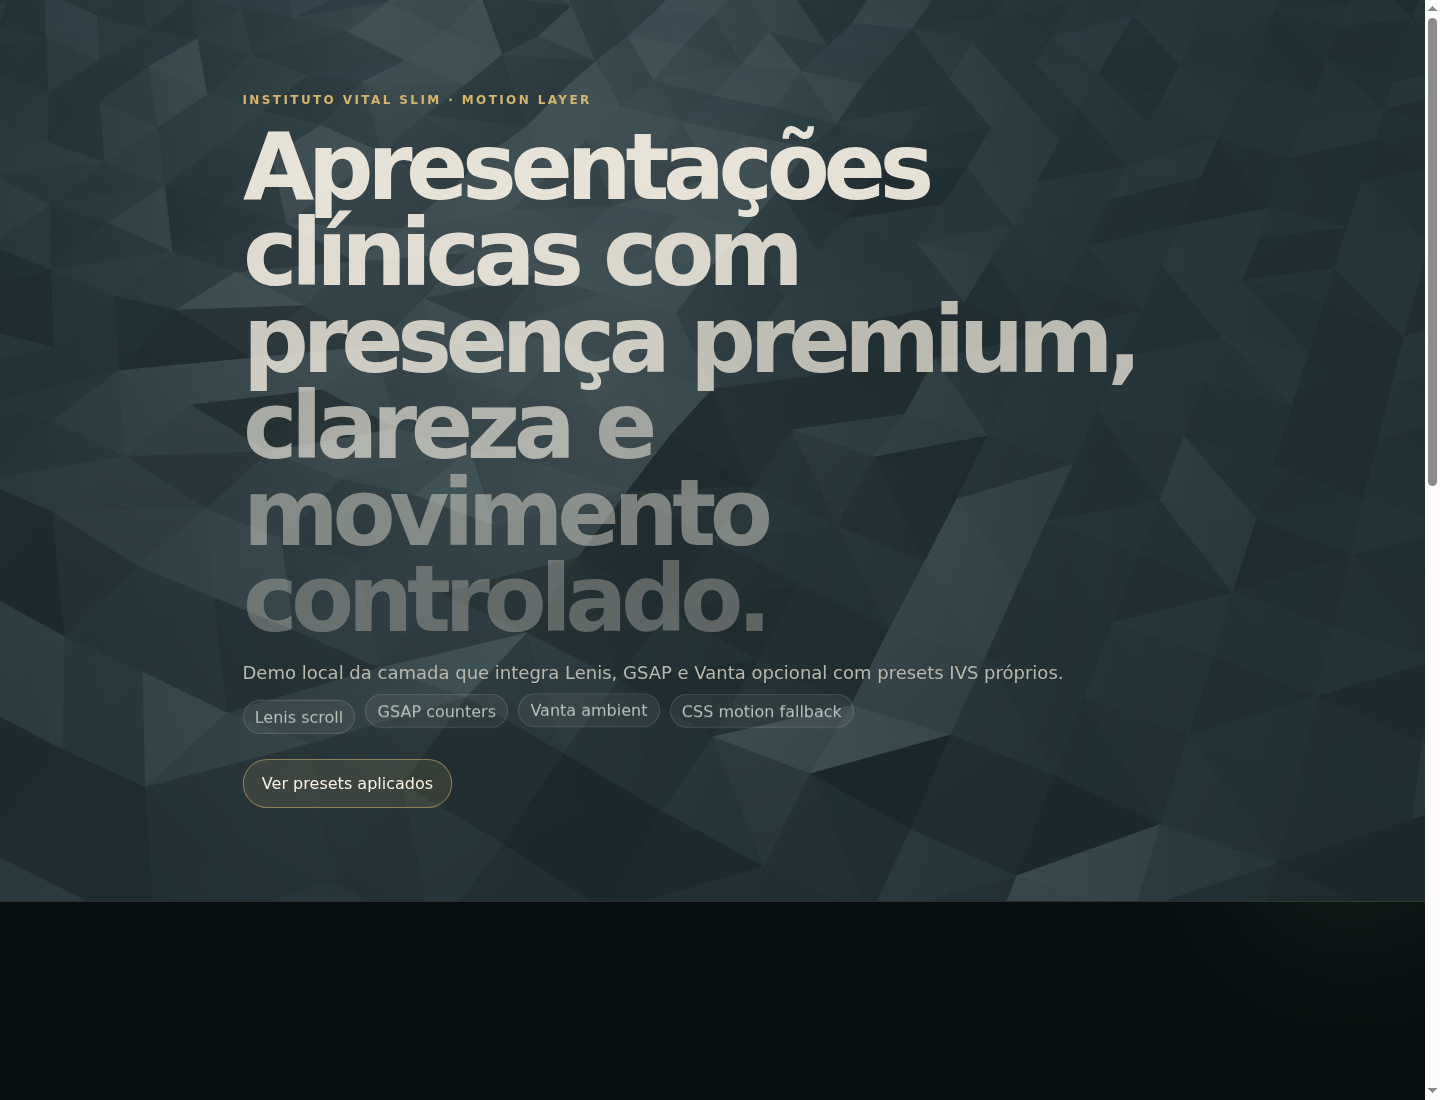
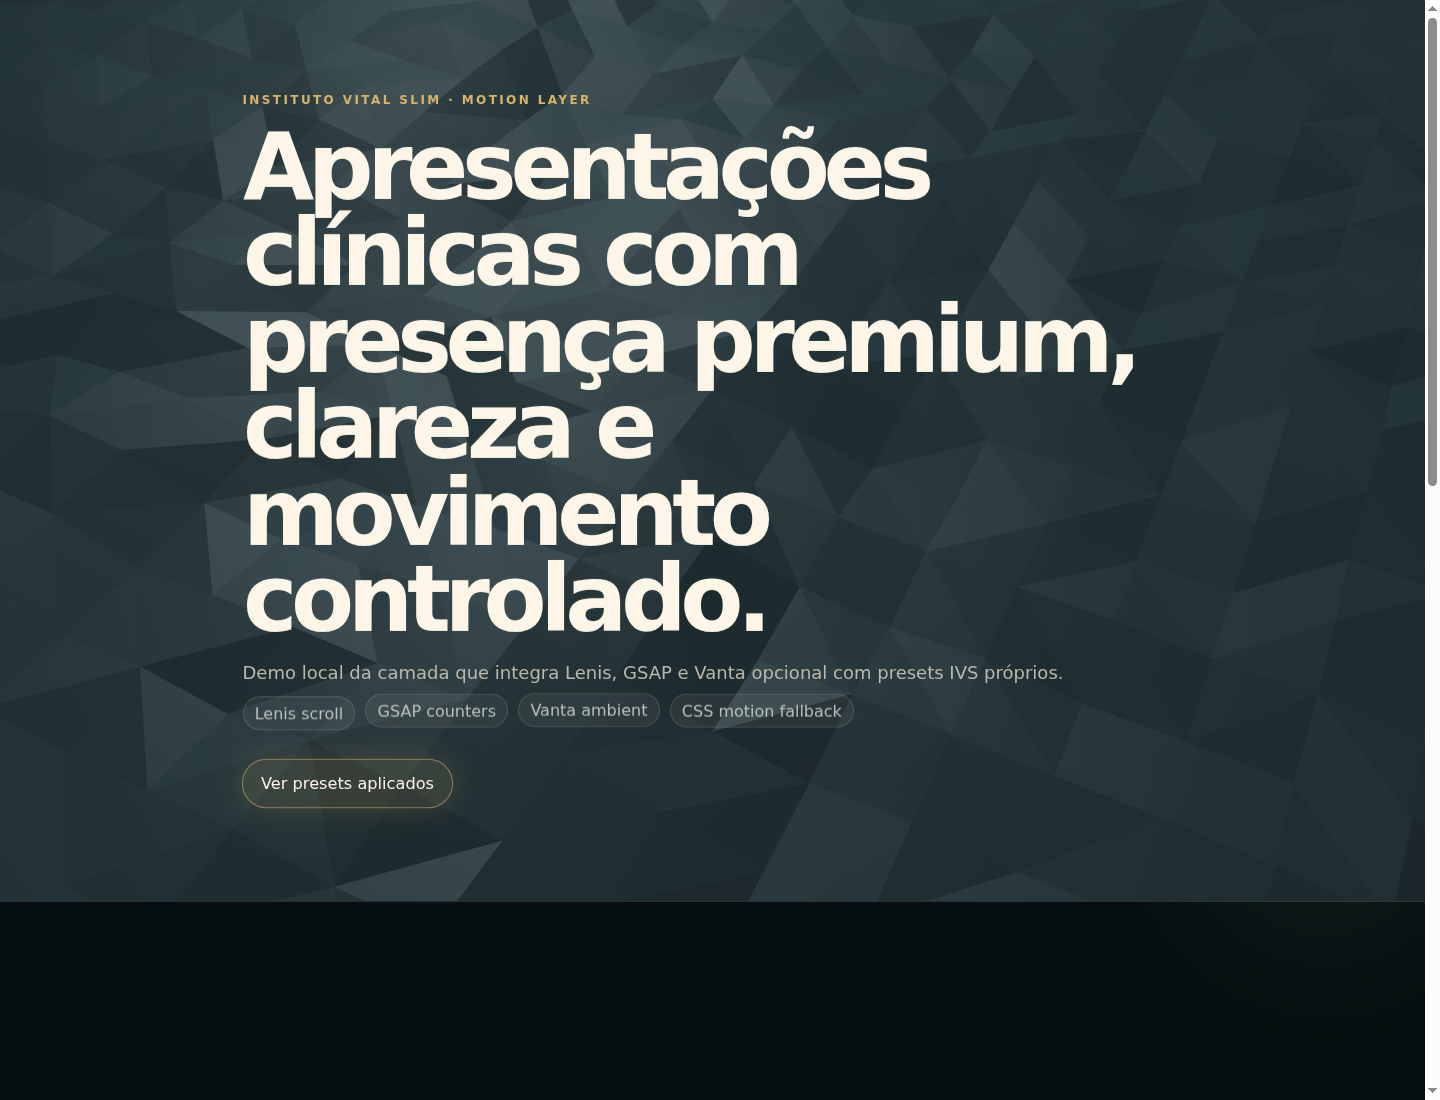
fix: replace poor motion preview with premium version

diff --git a/skills/ivs-motion-layer/scripts/render_preview_video.py b/skills/ivs-motion-layer/scripts/render_preview_video.py
@@ -1,106 +1,187 @@
 #!/usr/bin/env python3
-"""Gera preview MP4 da IVS Motion Layer para validação em canais que não executam HTML."""
-from pathlib import Path
-from PIL import Image, ImageDraw, ImageFont, ImageFilter
+"""Gera preview MP4 premium da IVS Motion Layer.
+
+Objetivo: provar movimento com estética médica premium — sem faixas agressivas,
+sem poluição visual e sem parecer template genérico de startup.
+"""
+from __future__ import annotations
+
 import math
 import subprocess
 import tempfile
+from pathlib import Path
+
+from PIL import Image, ImageDraw, ImageFilter, ImageFont
 
 OUT = Path('/root/cerebro-vital-slim/skills/ivs-motion-layer/examples/demo-apresentacao-ivs-motion-preview.mp4')
-W, H = 1280, 720
-FPS, DUR = 24, 5
-BG = (8, 15, 16)
-GOLD = (214, 180, 108)
-TEXT = (247, 242, 232)
-MUTED = (184, 192, 186)
-GREEN = (120, 200, 157)
+W, H = 1440, 900
+FPS, DUR = 30, 7
+BG = (7, 12, 13)
+PANEL = (18, 24, 23)
+PANEL_SOFT = (28, 34, 32)
+TEXT = (246, 239, 226)
+MUTED = (174, 168, 154)
+GOLD = (210, 174, 98)
+GOLD_LIGHT = (238, 211, 151)
+GREEN = (116, 176, 142)
+LINE = (82, 72, 52)
 
-try:
-    FONT_BIG = ImageFont.truetype('/usr/share/fonts/truetype/dejavu/DejaVuSans-Bold.ttf', 56)
-    FONT_MED = ImageFont.truetype('/usr/share/fonts/truetype/dejavu/DejaVuSans-Bold.ttf', 34)
-    FONT = ImageFont.truetype('/usr/share/fonts/truetype/dejavu/DejaVuSans.ttf', 24)
-    FONT_SMALL = ImageFont.truetype('/usr/share/fonts/truetype/dejavu/DejaVuSans.ttf', 18)
-except Exception:
-    FONT_BIG = FONT_MED = FONT = FONT_SMALL = ImageFont.load_default()
+FONT_DIR = Path('/usr/share/fonts/truetype/dejavu')
+SERIF_BOLD = ImageFont.truetype(str(FONT_DIR / 'DejaVuSerif-Bold.ttf'), 62)
+SERIF_MED = ImageFont.truetype(str(FONT_DIR / 'DejaVuSerif.ttf'), 38)
+SANS_BOLD = ImageFont.truetype(str(FONT_DIR / 'DejaVuSans-Bold.ttf'), 32)
+SANS = ImageFont.truetype(str(FONT_DIR / 'DejaVuSans.ttf'), 24)
+SMALL = ImageFont.truetype(str(FONT_DIR / 'DejaVuSans.ttf'), 18)
+TINY = ImageFont.truetype(str(FONT_DIR / 'DejaVuSans.ttf'), 15)
 
 
-def rounded(draw, xy, r, fill, outline=None, width=1):
+def ease(x: float) -> float:
+    x = max(0.0, min(1.0, x))
+    return 1 - pow(1 - x, 3)
+
+
+def draw_text(draw: ImageDraw.ImageDraw, xy: tuple[int, int], s: str, font: ImageFont.FreeTypeFont, fill: tuple[int, int, int], anchor=None):
+    draw.text(xy, s, font=font, fill=fill + (255,), anchor=anchor)
+
+
+def rounded(draw: ImageDraw.ImageDraw, xy, r, fill, outline=None, width=1):
     draw.rounded_rectangle(xy, radius=r, fill=fill, outline=outline, width=width)
 
 
-def text(draw, xy, s, font, fill):
-    draw.text(xy, s, font=font, fill=fill)
-
-
-def wrap(s, font, maxw):
-    words, lines, cur = s.split(), [], ''
-    for w in words:
-        test = (cur + ' ' + w).strip()
-        if ImageDraw.Draw(Image.new('RGB',(1,1))).textbbox((0,0), test, font=font)[2] <= maxw:
+def wrap(draw: ImageDraw.ImageDraw, s: str, font, maxw: int) -> list[str]:
+    lines, cur = [], ''
+    for word in s.split():
+        test = (cur + ' ' + word).strip()
+        if draw.textbbox((0, 0), test, font=font)[2] <= maxw:
             cur = test
         else:
-            lines.append(cur); cur = w
-    if cur: lines.append(cur)
+            lines.append(cur)
+            cur = word
+    if cur:
+        lines.append(cur)
     return lines
 
-with tempfile.TemporaryDirectory() as td:
-    frames = []
-    for i in range(FPS * DUR):
-        t = i / FPS
-        im = Image.new('RGB', (W, H), BG)
-        overlay = Image.new('RGBA', (W, H), (0,0,0,0))
-        od = ImageDraw.Draw(overlay)
-        # moving blurred orbs
-        for cx, cy, color, phase in [(180,150,GOLD,0), (1040,510,GREEN,1.7)]:
-            x = cx + math.sin(t*1.1+phase)*80
-            y = cy + math.cos(t*.9+phase)*45
-            od.ellipse((x-220,y-220,x+220,y+220), fill=color+(38,))
-        overlay = overlay.filter(ImageFilter.GaussianBlur(36))
-        im = Image.alpha_composite(im.convert('RGBA'), overlay)
-        d = ImageDraw.Draw(im)
-        # sheen
-        sheen_x = -500 + (t/DUR)*1900
-        d.polygon([(sheen_x,0),(sheen_x+180,0),(sheen_x-120,H),(sheen_x-300,H)], fill=(255,255,255,18))
-        text(d, (70,72), 'INSTITUTO VITAL SLIM · MOTION LAYER', FONT_SMALL, GOLD+(255,))
-        title = 'Apresentações clínicas com presença premium, clareza e movimento controlado.'
-        y=118
-        for idx,line in enumerate(wrap(title, FONT_BIG, 930)):
-            offset = max(0, 1 - (t - idx*.16)/.55)
-            text(d, (70, y + int(offset*28)), line, FONT_BIG, TEXT+(255,))
-            y += 64
-        text(d, (72, y+10), 'Preview em vídeo: chips flutuam, cards brilham, counters e barras animam.', FONT, MUTED+(255,))
-        # chips floating
-        chips = ['Lenis scroll', 'GSAP counters', 'Vanta ambient', 'CSS fallback']
-        x=72; cy=y+64
-        for n,ch in enumerate(chips):
-            yy = cy + math.sin(t*2+n)*8
-            tw = d.textbbox((0,0), ch, font=FONT_SMALL)[2]
-            rounded(d, (x, yy, x+tw+30, yy+36), 18, (247,242,232,18), (214,180,108,90), 1)
-            text(d, (x+15, yy+8), ch, FONT_SMALL, MUTED+(255,))
-            x += tw+46
-        # metrics cards enter
-        base_y=470
-        vals=[21.6,92,6]
-        labels=['kg em jornada visual','% de progresso demonstrativo','meses de acompanhamento']
-        for n in range(3):
-            enter = min(1, max(0, (t-.6-n*.18)/.7))
-            yy = base_y + (1-enter)*50
-            xx = 70+n*385
-            rounded(d, (xx, yy, xx+340, yy+160), 24, (255,255,255,18), (255,255,255,42), 1)
-            # moving card sheen
-            sx = xx-240 + ((t*180+n*70) % 720)
-            d.polygon([(sx,yy),(sx+70,yy),(sx-30,yy+160),(sx-100,yy+160)], fill=(214,180,108,35))
-            val = vals[n]*min(1, max(0,(t-1.2-n*.2)/1.4))
-            suffix = [' kg','%',' meses'][n]
-            shown = f'{val:.1f}{suffix}' if n==0 else f'{int(val)}{suffix}'
-            text(d, (xx+24, yy+24), shown, FONT_MED, GOLD+(255,))
-            text(d, (xx+24, yy+75), labels[n], FONT_SMALL, MUTED+(255,))
-            # progress line
-            prog = min(1, max(0,(t-2.1-n*.12)/1.0))
-            d.rounded_rectangle((xx+24, yy+120, xx+315, yy+130), radius=5, fill=(247,242,232,28))
-            d.rounded_rectangle((xx+24, yy+120, xx+24+291*prog, yy+130), radius=5, fill=GOLD+(255,))
-        frame = Path(td)/f'frame_{i:04d}.png'
-        im.convert('RGB').save(frame)
-        frames.append(frame)
-    subprocess.run(['ffmpeg','-y','-framerate',str(FPS),'-i',str(Path(td)/'frame_%04d.png'),'-vf','format=yuv420p','-movflags','+faststart',str(OUT)], check=True, stdout=subprocess.DEVNULL, stderr=subprocess.DEVNULL)
-print(OUT)
+
+def gradient_bg(t: float) -> Image.Image:
+    base = Image.new('RGBA', (W, H), BG + (255,))
+    glow = Image.new('RGBA', (W, H), (0, 0, 0, 0))
+    gd = ImageDraw.Draw(glow)
+
+    # Soft moving aurora, premium and slow.
+    orbs = [
+        (230 + math.sin(t * .65) * 54, 170 + math.cos(t * .55) * 28, 340, GOLD, 35),
+        (1110 + math.sin(t * .48 + 1.8) * 68, 285 + math.cos(t * .5) * 42, 420, GREEN, 28),
+        (850 + math.sin(t * .42 + 3) * 42, 760 + math.cos(t * .39) * 30, 360, GOLD_LIGHT, 18),
+    ]
+    for cx, cy, size, color, alpha in orbs:
+        gd.ellipse((cx - size, cy - size, cx + size, cy + size), fill=color + (alpha,))
+    glow = glow.filter(ImageFilter.GaussianBlur(65))
+    return Image.alpha_composite(base, glow)
+
+
+def draw_metric_card(d, x, y, w, h, title, value, suffix, note, progress, t, delay):
+    p = ease((t - delay) / .85)
+    yy = y + int((1 - p) * 34)
+    alpha = int(255 * p)
+    shadow = Image.new('RGBA', (W, H), (0, 0, 0, 0))
+    sd = ImageDraw.Draw(shadow)
+    rounded(sd, (x + 8, yy + 18, x + w + 8, yy + h + 18), 26, (0, 0, 0, int(58 * p)))
+    return_shadow = shadow.filter(ImageFilter.GaussianBlur(20))
+
+    rounded(d, (x, yy, x + w, yy + h), 26, PANEL + (220,), (105, 87, 53, int(110 * p)), 1)
+    # subtle border light
+    sweep = (math.sin(t * 1.15 + delay * 2) + 1) / 2
+    d.line((x + 28, yy + h - 1, x + 28 + int((w - 56) * sweep), yy + h - 1), fill=GOLD + (int(120 * p),), width=2)
+    draw_text(d, (x + 28, yy + 26), title.upper(), TINY, MUTED)
+    current = value * ease((t - delay - .35) / 1.25)
+    if isinstance(value, float) and not value.is_integer():
+        val_s = f'{current:.1f}'.replace('.', ',')
+    else:
+        val_s = f'{int(current)}'
+    draw_text(d, (x + 28, yy + 62), val_s + suffix, SANS_BOLD, GOLD_LIGHT)
+    draw_text(d, (x + 28, yy + 105), note, SMALL, MUTED)
+    # progress
+    bar_y = yy + h - 38
+    rounded(d, (x + 28, bar_y, x + w - 28, bar_y + 8), 4, (255, 255, 255, int(26 * p)))
+    pw = int((w - 56) * progress * ease((t - delay - .55) / 1.15))
+    rounded(d, (x + 28, bar_y, x + 28 + pw, bar_y + 8), 4, GOLD + (alpha,))
+    return return_shadow
+
+
+def frame(t: float) -> Image.Image:
+    im = gradient_bg(t)
+    d = ImageDraw.Draw(im)
+
+    # Editorial frame lines.
+    d.line((76, 78, W - 76, 78), fill=LINE + (135,), width=1)
+    d.line((76, H - 78, W - 76, H - 78), fill=LINE + (95,), width=1)
+    d.ellipse((W - 194, 54, W - 146, 102), outline=GOLD + (150,), width=1)
+    d.ellipse((W - 181, 67, W - 159, 89), fill=GOLD + (110,))
+
+    # Header.
+    draw_text(d, (86, 106), 'INSTITUTO VITAL SLIM', SMALL, GOLD)
+    draw_text(d, (86, 132), 'motion layer para apresentações premium', TINY, MUTED)
+
+    title = 'Presença visual premium sem perder clareza clínica.'
+    title_lines = wrap(d, title, SERIF_BOLD, 830)
+    y = 194
+    for idx, line in enumerate(title_lines):
+        p = ease((t - .18 - idx * .13) / .7)
+        x = 86 + int((1 - p) * -34)
+        yy = y + idx * 70
+        draw_text(d, (x, yy), line, SERIF_BOLD, TEXT)
+
+    subtitle_p = ease((t - .85) / .75)
+    subtitle = 'Scroll suave, entrada de seções, métricas animadas e fundos ambientais discretos — com fallback e reduced motion.'
+    for n, line in enumerate(wrap(d, subtitle, SANS, 760)):
+        draw_text(d, (88, 430 + n * 32 + int((1 - subtitle_p) * 14)), line, SANS, MUTED)
+
+    # Pills/chips.
+    chips = [('Lenis', 'scroll'), ('GSAP', 'timelines'), ('Vanta', 'ambient'), ('IVS', 'fallback')]
+    cx = 88
+    for i, (a, b) in enumerate(chips):
+        p = ease((t - 1.05 - i * .08) / .55)
+        yy = 518 + math.sin(t * 1.8 + i) * 4
+        w = 118
+        rounded(d, (cx, yy, cx + w, yy + 40), 20, (255, 255, 255, int(18 * p)), (210, 174, 98, int(70 * p)), 1)
+        draw_text(d, (cx + 18, int(yy + 10)), a, SMALL, GOLD_LIGHT)
+        draw_text(d, (cx + 68, int(yy + 10)), b, TINY, MUTED)
+        cx += w + 12
+
+    # Metric cards with shadows composed behind.
+    shadows = []
+    shadows.append(draw_metric_card(d, 86, 604, 360, 160, 'Evolução', 21.6, ' kg', 'counter animado com sobriedade', .82, t, 1.45))
+    shadows.append(draw_metric_card(d, 500, 604, 360, 160, 'Aderência', 92, '%', 'progresso visual sem exagero', .92, t, 1.62))
+    shadows.append(draw_metric_card(d, 914, 604, 360, 160, 'Jornada', 6, ' meses', 'linha narrativa da apresentação', .68, t, 1.79))
+
+    # Right-side soft presentation mockup.
+    p = ease((t - .95) / .9)
+    px, py = 985 + int((1 - p) * 48), 176
+    rounded(d, (px, py, px + 290, py + 245), 28, (246, 239, 226, int(18 * p)), (210, 174, 98, int(85 * p)), 1)
+    draw_text(d, (px + 28, py + 30), 'PREVIEW', TINY, GOLD)
+    draw_text(d, (px + 28, py + 62), 'Apresentação', SERIF_MED, TEXT)
+    for j, width in enumerate([210, 168, 238]):
+        rounded(d, (px + 28, py + 124 + j * 34, px + 28 + width, py + 135 + j * 34), 5, (255, 255, 255, int(35 * p)))
+    # animated gold cursor/progress dot
+    dotx = px + 34 + int(220 * ((math.sin(t * 1.4) + 1) / 2))
+    d.ellipse((dotx - 6, py + 210 - 6, dotx + 6, py + 210 + 6), fill=GOLD + (int(230 * p),))
+
+    return im.convert('RGB')
+
+
+def main() -> None:
+    OUT.parent.mkdir(parents=True, exist_ok=True)
+    with tempfile.TemporaryDirectory() as td:
+        td_path = Path(td)
+        for i in range(FPS * DUR):
+            t = i / FPS
+            frame(t).save(td_path / f'frame_{i:04d}.png')
+        subprocess.run([
+            'ffmpeg', '-y', '-framerate', str(FPS), '-i', str(td_path / 'frame_%04d.png'),
+            '-vf', 'format=yuv420p', '-movflags', '+faststart', str(OUT)
+        ], check=True, stdout=subprocess.DEVNULL, stderr=subprocess.DEVNULL)
+    print(OUT)
+
+
+if __name__ == '__main__':
+    main()